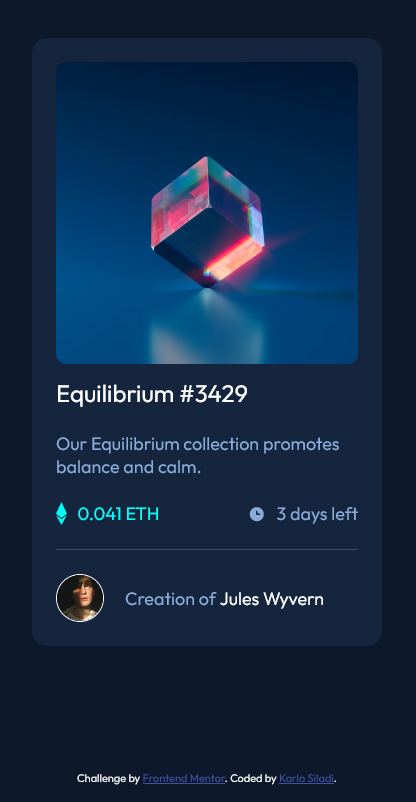
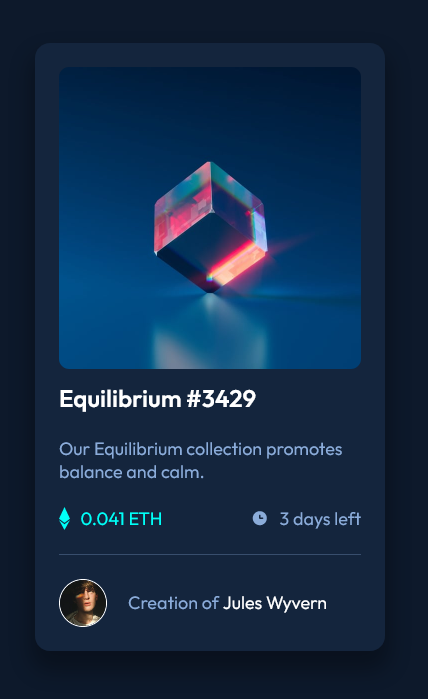
Accessibility improvements. Box shadow. New screenshot for readme.

diff --git a/index.html b/index.html
@@ -27,7 +27,7 @@
           </div>
         </div>
 
-        <p class="title">Equilibrium #3429</p>
+        <h1 class="title">Equilibrium #3429</h1>
         <p class="description">
           Our Equilibrium collection promotes balance and calm.
         </p>
@@ -61,13 +61,13 @@
           </p>
         </div>
       </div>
-      <div class="attribution">
+      <footer class="attribution">
         Challenge by
         <a href="https://www.frontendmentor.io?ref=challenge" target="_blank"
           >Frontend Mentor</a
         >. Coded by
         <a href="https://www.linkedin.com/in/karlosiladi/">Karlo Siladi</a>.
-      </div>
+      </footer>
     </main>
   </body>
 </html>

diff --git a/style.css b/style.css
@@ -40,6 +40,7 @@ p {
   border-radius: var(--card-border-radius);
   padding: 1.5rem;
   width: 350px;
+  box-shadow: 0 15px 20px 5px rgba(0, 0, 0, 0.3);
 }
 
 .img-container {
@@ -139,6 +140,7 @@ hr {
   font-size: 11px;
   text-align: center;
   color: white;
+  margin-top: 5rem;
 }
 
 .attribution a {
